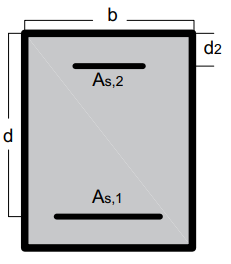
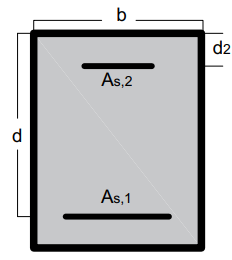
Add files via upload

Changed region(s): [[0.0, 0.0308, 1.0, 0.9846], [0.2121, 0.7077, 0.7576, 0.8615], [0.303, 0.2154, 0.6667, 0.3385]]

diff --git a/Beam Design.html b/Beam Design.html
@@ -110,7 +110,7 @@
       
     </table>
     </td>
-    <td rowspan="2"><img src="Rcbeam.jpg" alt="Rc beam section" width=60% height=60%></td>
+    <td rowspan="2" valign="top"><img src="Rcbeam.jpg" alt="Rc beam section" width=60% height=60%></td>
     </tr>
     <tr>
       <td>Input load and design rc beam</td>
@@ -123,116 +123,126 @@
     <td><p><button onclick="shear_design()">Design for shear</button></p></td></td>
   </tr>
     
-</table>
-
-      
+</table>      
       <p>
-        <table width="100%">            
+        <table width="100%">
           <tr>
             <td>
-          <table border="2" cellpadding="5">            
-            <tr>
-              <th colspan="3">Flexure design values</th>
-            </tr>
-            <tr>
-                <td>Beam design</td>
-                <td bgcolor="#e0e0d1" width= "85" colspan="2"><p id="designStatus"></p></td>
-                
-              </tr>
-            <tr>
-              <td>Design load</td>
-              <td bgcolor="#e0e0d1" width= "85"><p id="designLoad"></p></td>
-              <td>kN/m</td>
-            </tr>
-            <tr>
-              <td>Design moment</td>
-              <td bgcolor="#e0e0d1"><p id="designMoment"></p></td>
-              <td>kN-m</td>
-            </tr>                           
-            <tr>                  
-              <td>Effective depth (d)</td>                  
-              <td bgcolor="#e0e0d1"> <p id="effectiveDepth"></p></td>        <!--If K<= K' -->                
-              <td>m</td>
-            </tr>     
-            <tr>                  
-              <td>Effective depth (d<sub>2</sub>)</td>                  
-              <td bgcolor="#e0e0d1"> <p id="effectiveDepthCompression"></p></td>        <!--If K<= K' -->                
-              <td>m</td>
-            </tr>                
-            <tr>                  
-              <td>K value</td>                  
-              <td colspan="2" bgcolor="#e0e0d1"> <p id="reinfCoffi"></p></td>       <!--If K<= K' -->                
-            </tr>                
-            <tr>                    
-              <td>K' value</td>                    
-              <td colspan="2" bgcolor="#e0e0d1"> <p id="underReinforced"></p></td>               
-            </tr>                 
-            <tr>                  
-              <td>Tension steel area (A<sub>s1</sub>)</td>                     
-              <td bgcolor="#e0e0d1"> <p id="as1"></p></td>                    
-              <td>mm<sup>2</sup></td>
-            </tr>                                  
-            <tr>                   
-              <td>Compression steel area (A<sub>s2</sub>)</td>                   
-              <td bgcolor="#e0e0d1"> <p id="as2"></p></td>                    
-              <td>mm<sup>2</sup></td>                
-            </tr>            
-            <tr>                 
-              <td>No of reinf. bar in tension </td>                  
-              <td colspan="2" bgcolor="#e0e0d1"> <p id="tensionBar"></p></td>                
-            </tr>              
-            <tr>                    
-              <td>No of reinf. bar in compression </td>                  
-              <td colspan="2" bgcolor="#e0e0d1"> <p id="compressionBar"></p></td>           
-            </tr>               
-          </table>
-          </td>
-          <td><img id="beamSectionIMG" src="concreteSection.PNG"  width="200" height="250"></p></td>
-          <td>
-          <table border="2" cellpadding="5">
-            <tr>
-              <th colspan="3">Shear design</th>
-            </tr>
-            <tr>
-              <td>Design shear stress V<sub>ED</sub></td>
-              <td  bgcolor="#e0e0d1" width= "85"><p id = "shearStress"></p></td>
-              <td>MPa</td>
-            </tr>
-            <tr>
-              <td rowspan="2">Concrete strut capacity v<sub>rd</sub></td>
-              <td bgcolor="#e0e0d1" width= "85"><p id= "strutCot2_5"></p></td>
-              <td>MPa</td>
-            </tr>
-              <tr>
-                <td bgcolor="#e0e0d1" width= "85"><p id= "strutCot1_0"></p></td>
-                <td>MPa</td>
-              </tr>              
-              <tr>
-                  <td>teta</td>
-                  <td bgcolor="#e0e0d1" width= "85"><p id= "teta"></p></td>
-                  <td>&#176;</td>
+                <table border="2" cellpadding="5">            
+                    <tr>
+                      <th colspan="3" >Flexure design values</th>
+                    </tr>
+                    <tr>
+                        <td>Beam design</td>
+                        <td bgcolor="#e0e0d1" width= "85" colspan="2"><p id="designStatus"></p></td>
+                        
+                      </tr>
+                    <tr>
+                      <td>Design load</td>
+                      <td bgcolor="#e0e0d1" width= "85"><p id="designLoad"></p></td>
+                      <td>kN/m</td>
+                    </tr>
+                    <tr>
+                      <td>Design moment</td>
+                      <td bgcolor="#e0e0d1"><p id="designMoment"></p></td>
+                      <td>kN-m</td>
+                    </tr>                           
+                    <tr>                  
+                      <td>Effective depth (d)</td>                  
+                      <td bgcolor="#e0e0d1"> <p id="effectiveDepth"></p></td>        <!--If K<= K' -->                
+                      <td>m</td>
+                    </tr>     
+                    <tr>                  
+                      <td>Effective depth (d<sub>2</sub>)</td>                  
+                      <td bgcolor="#e0e0d1"> <p id="effectiveDepthCompression"></p></td>        <!--If K<= K' -->                
+                      <td>m</td>
+                    </tr>                
+                    <tr>                  
+                      <td>K value</td>                  
+                      <td colspan="2" bgcolor="#e0e0d1"> <p id="reinfCoffi"></p></td>       <!--If K<= K' -->                
+                    </tr>                
+                    <tr>                    
+                      <td>K' value</td>                    
+                      <td colspan="2" bgcolor="#e0e0d1"> <p id="underReinforced"></p></td>               
+                    </tr>                 
+                    <tr>                  
+                      <td>Tension steel area (A<sub>s1</sub>)</td>                     
+                      <td bgcolor="#e0e0d1"> <p id="as1"></p></td>                    
+                      <td>mm<sup>2</sup></td>
+                    </tr>                                  
+                    <tr>                   
+                      <td>Compression steel area (A<sub>s2</sub>)</td>                   
+                      <td bgcolor="#e0e0d1"> <p id="as2"></p></td>                    
+                      <td>mm<sup>2</sup></td>                
+                    </tr>            
+                    <tr>                 
+                      <td>No of reinf. bar in tension </td>                  
+                      <td colspan="2" bgcolor="#e0e0d1"> <p id="tensionBar"></p></td>                
+                    </tr>              
+                    <tr>                    
+                      <td>No of reinf. bar in compression </td>                  
+                      <td colspan="2" bgcolor="#e0e0d1"> <p id="compressionBar"></p></td>           
+                    </tr>               
+                  </table>
+            </td>
+            <td valign="top">
+              <table border="2" cellpadding="5">
+                  <tr>
+                    <th colspan="3">Shear design</th>
+                  </tr>
+                  <tr>
+                    <td>Design shear stress V<sub>ED</sub></td>
+                    <td  bgcolor="#e0e0d1" width= "85"><p id = "shearStress"></p></td>
+                    <td>MPa</td>
+                  </tr>
+                  <tr>
+                    <td rowspan="2">Concrete strut capacity v<sub>rd</sub></td>
+                    <td bgcolor="#e0e0d1" width= "85"><p id= "strutCot2_5"></p></td>
+                    <td>MPa</td>
+                  </tr>
+                    <tr>
+                      <td bgcolor="#e0e0d1" width= "85"><p id= "strutCot1_0"></p></td>
+                      <td>MPa</td>
+                    </tr>              
+                    <tr>
+                        <td>Minimum angle of strut &theta;</td>
+                        <td bgcolor="#e0e0d1" width= "85"><p id= "teta"></p></td>
+                        <td>&#176;</td>
+                      </tr>
+                      <tr>
+                          <td>Area per spacing As/s</td>
+                          <td bgcolor="#e0e0d1" width= "85"><p id= "apers"></p></td>
+                          <td>mm</td>
+                        </tr>
+                  <tr>
+                      <td>Shear reinforcement A<sub>sw</sub></td>
+                      <td bgcolor="#e0e0d1" width= "85"><p id = "stirrupArea"></p></td>
+                      <td>mm<sup>2</sup></td>
+                    </tr>
+                    <tr>
+                        <td>Spacing for shear reinforcement c/c</td>
+                        <td bgcolor="#e0e0d1" width= "85"><p id = "stirrupSpacing"></p></td>
+                        <td>mm</td>
+                      </tr>                
+                </table>
+          </td>            
+            <td>
+              <table>
+                <tr>                  
+                  <td valign="top">
+                    <img id="beamSectionIMG" src="concreteSection.PNG"  width="200" height="250">
+                </td>
                 </tr>
                 <tr>
-                    <td>As per spacing</td>
-                    <td bgcolor="#e0e0d1" width= "85"><p id= "apers"></p></td>
-                    <td>mm</td>
-                  </tr>
-            <tr>
-                <td>Shear reinforcement A<sub>sw</sub></td>
-                <td bgcolor="#e0e0d1" width= "85"><p id = "stirrupArea"></p></td>
-                <td>mm<sup>2</sup></td>
-              </tr>
-              <tr>
-                  <td>Spacing for shear reinforcement</td>
-                  <td bgcolor="#e0e0d1" width= "85"><p id = "stirrupSpacing"></p></td>
-                  <td>mm</td>
+                  <td>
+                      <img id="concreteShearSection" src="concrete shear section.png"  width="500" height="150">
+                  </td>
                 </tr>
-                
-          </table>
-          </td>
-          </tr>
-          </table>                 
-        </p>               
+              </table>
+              </td>
+              </tr>
+              </table>
+              </p>           
         <p><a href="https://docs.google.com/forms/d/e/1FAIpQLScmigl6SHjmZOa-pMBcaFkFTwFsmcs2mSlqwM1l-9G2cG5LYg/viewform?usp=sf_link">Feedback</a><br /></p>      
 </body>
 </html>

diff --git a/beamdesign.js b/beamdesign.js
@@ -32,6 +32,8 @@ function reset_page() {
    document.getElementById( "sfTypeDeadload").value = 1.35;
    document.getElementById( "sfTypeLiveload").value = 1.5;
    document.getElementById("beamSectionIMG").src="concreteSection.PNG";
+   document.getElementById("concreteShearSection").src="concrete shear section.png";
+
        
    var selectorBearingSafety = document.getElementById("steelType");   
    selectorBearingSafety.selectedIndex = 2;
@@ -265,6 +267,7 @@ function shear_design(){
 
         var teta =  21.8;
         
+        document.getElementById("concreteShearSection").src="ShearSectionMiniStirrup.png";
 
     }   else if(v_ED_MPa < V_RD_cot1_0){
 
@@ -275,6 +278,8 @@ function shear_design(){
         var stirrup_spacing = Math.min((stirrup_bar_as_mm * LegNumber )/ Asw_per_s, 0.75 * d1 * 1000);
 
         var Asw_mm = stirrup_bar_as_mm * LegNumber;
+
+        document.getElementById("concreteShearSection").src="shearSectionStirrup.png";
 
     }else {
 
